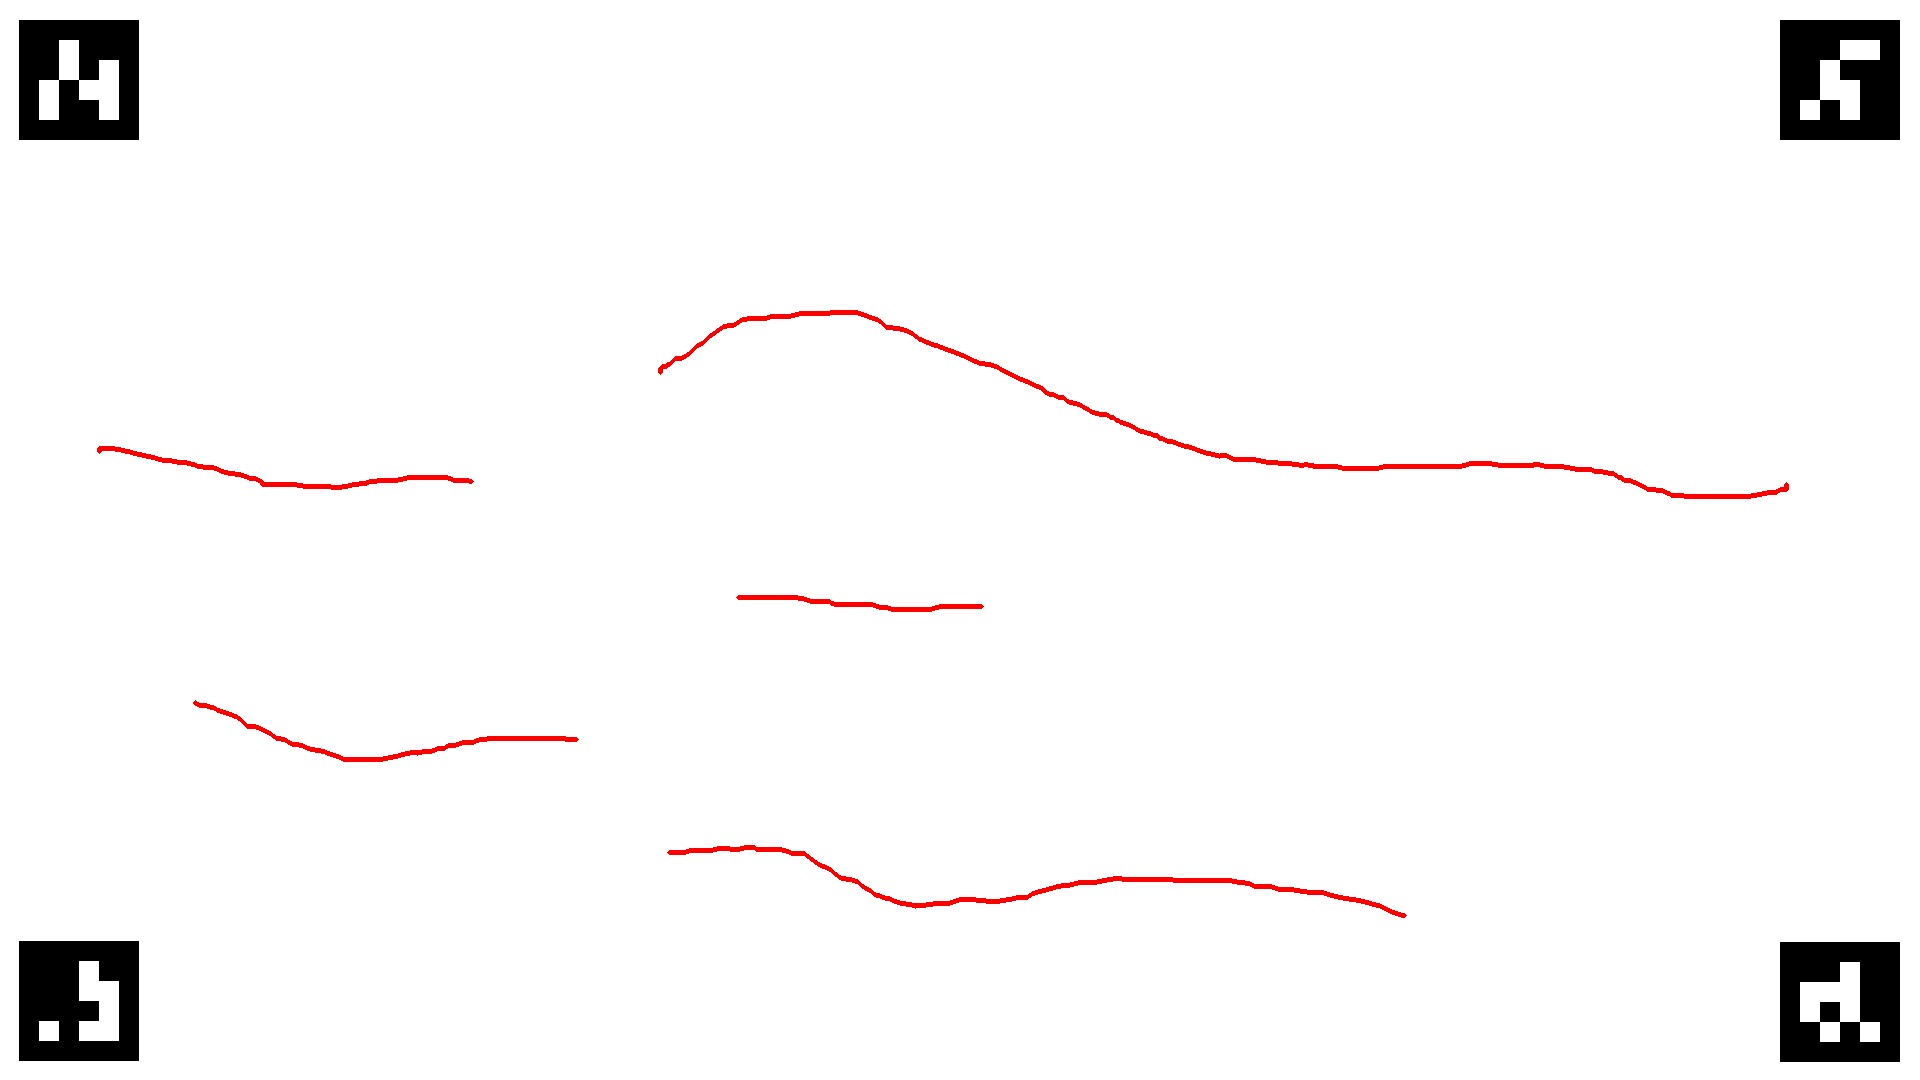
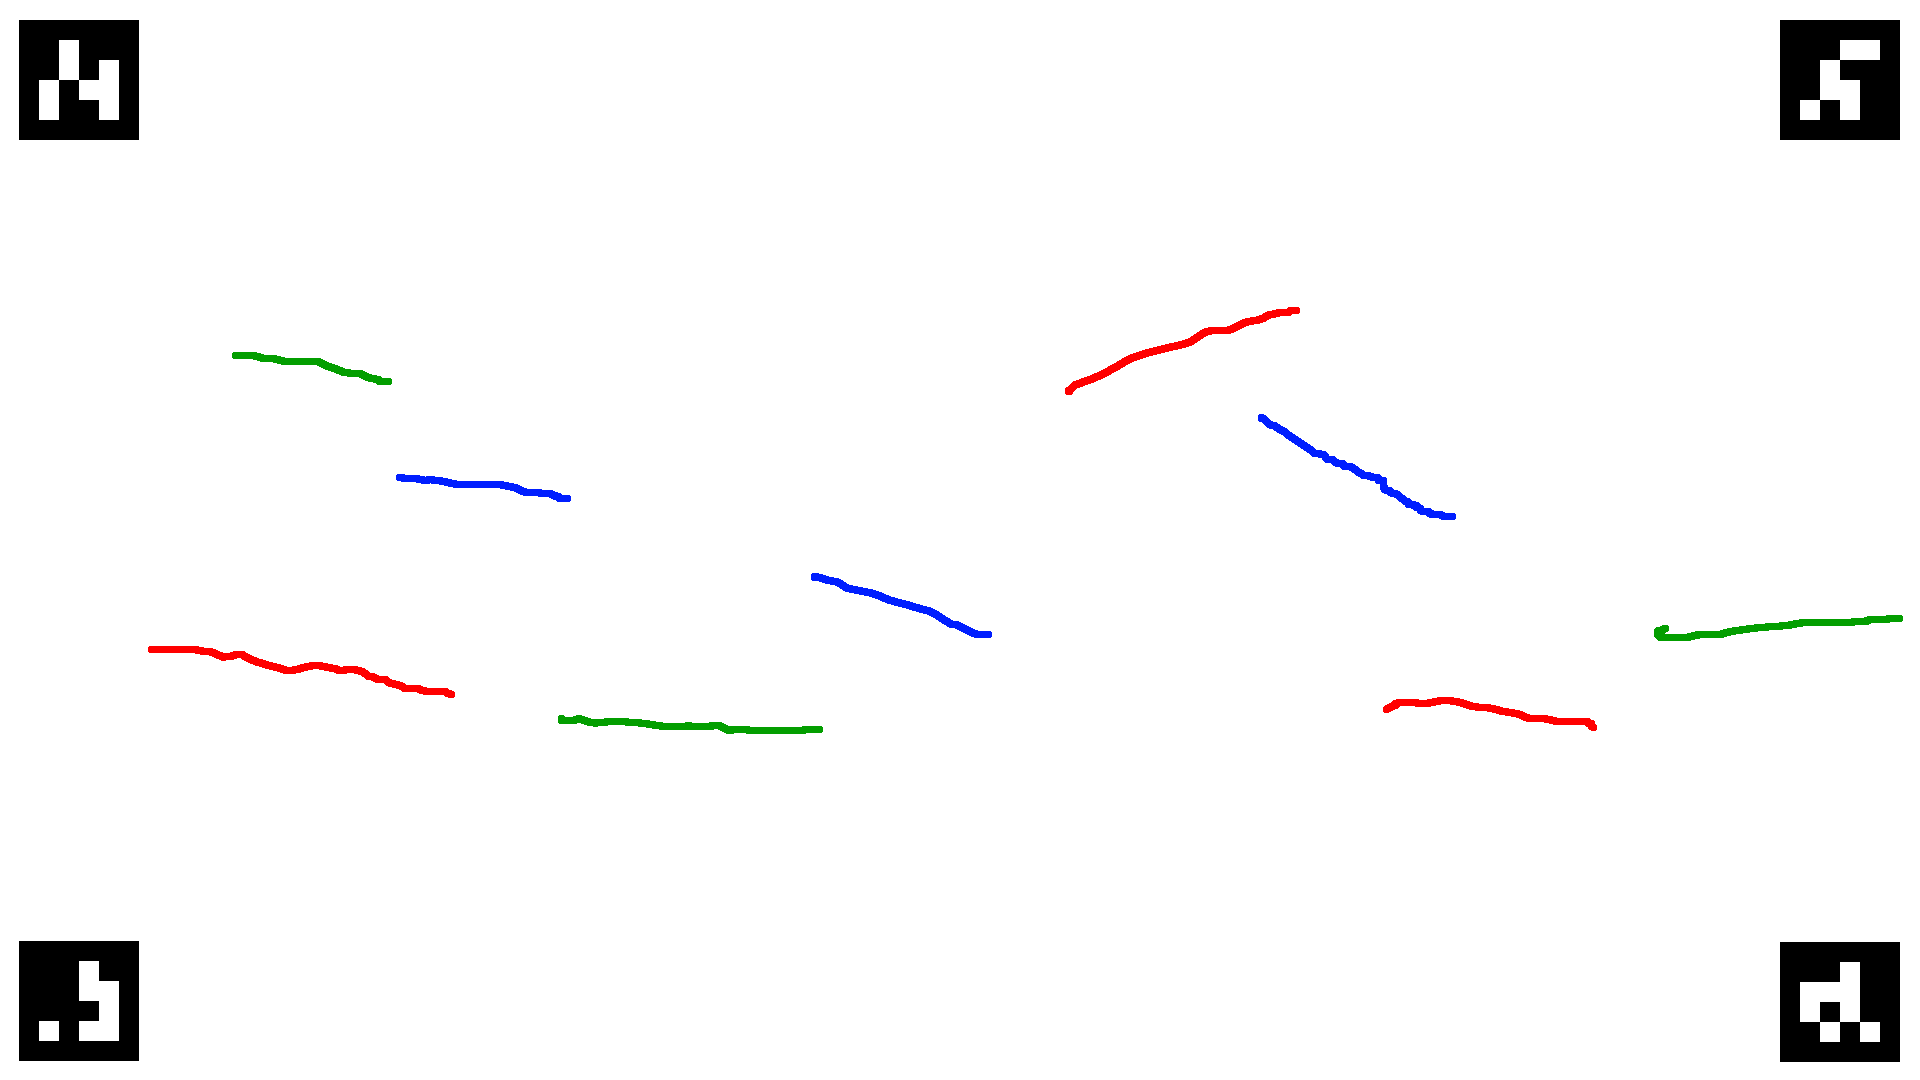
Added different colors and hard reset
And renamed Bong to Barkourball, geez

diff --git a/apps/barkourball.py b/apps/barkourball.py
@@ -1,5 +1,5 @@
 import time
-from typing import List
+from typing import List, SupportsBytes
 from pygame.event import Event
 from pymunk.vec2d import Vec2d
 from lib.bicturemaker import Bicturemaker
@@ -14,16 +14,25 @@ import pymunk.autogeometry
 import pygame.font
 
 
-bols = BolygonBetector()
+red_bols = BolygonBetector((170, 127, 127), (10, 255, 255))
+green_bols = BolygonBetector((50, 127, 127), (70, 255, 255))
+blue_bols = BolygonBetector((110, 127, 127), (130, 255, 255))
 
 
 def barse_red_bolygons(image, field):
-    field["bolygons"] = bols.detect(image)
+    field["red_bolygons"] = red_bols.detect(image)
 
+def barse_green_bolygons(image, field):
+    field["green_bolygons"] = green_bols.detect(image)
 
-class Bong:
+def barse_blue_bolygons(image, field):
+    field["blue_bolygons"] = blue_bols.detect(image)
 
-    barse_red_lines = BarserMethod(barse_red_bolygons)
+class BarkourBall:
+
+    barse_red_bolygons = BarserMethod(barse_red_bolygons)
+    barse_green_bolygons = BarserMethod(barse_green_bolygons)
+    barse_blue_bolygons = BarserMethod(barse_blue_bolygons)
     
     def load(self, context: LoadContext) -> None:
         
@@ -38,10 +47,28 @@ class Bong:
 
         self.started = False
 
-        self.drawn_lines = []
+        self.red_lines = []
+        self.green_lines = []
+        self.blue_lines = []
         self.last_updated = None
 
         self.time_won = None
+        self.sub_steps = 20
+
+    def tick(self, context: TickContext, barsed_context: BarsedContext):
+
+        if self.__handle_events(context.events):
+            return True
+
+        if not self.started:
+            self.__handle_barsed_context(barsed_context)
+
+        for x in range(self.sub_steps):
+            self.space.step(context.delta_ms / 1000 / self.sub_steps)
+
+        self.__check_win()
+
+        self.__render()
 
     def __init_objects(self):
 
@@ -59,30 +86,18 @@ class Bong:
         self.ball.position = self.start
         ball_shape = pymunk.Circle(self.ball, self.ball_radius)
         ball_shape.friction = 0.3
+        ball_shape.elasticity = 0.5
         self.space.add(self.ball, ball_shape)
 
         self.borders = []
         _, _, self.start_bottom = self.__set_borders(self.start)
         self.__set_borders(self.end)
 
-    def tick(self, context: TickContext, barsed_context: BarsedContext):
-
-        if self.__handle_events(context.events):
-            return True
-
-        if not self.started:
-            self.__handle_barsed_context(barsed_context)
-
-        self.space.step(context.delta_ms / 1000)
-
-        self.__check_win()
-
-        self.__render()
-
     def __reset(self):
 
         self.ball.position = self.start
         self.ball.velocity = (0, 0)
+        self.ball.angular_velocity = 0
 
         self.space.remove(*self.borders)
 
@@ -99,7 +114,12 @@ class Bong:
                     self.started = True
                     self.space.remove(self.start_bottom)
                     self.borders.remove(self.start_bottom)
-                if event.key == pygame.K_r:
+                if event.unicode == 'r':
+                    self.started = False
+                    self.__reset()
+                if event.unicode == 'R':
+                    self.start = Vec2d(random.randint(-self.start_x, self.start_x), self.start_y)
+                    self.end = Vec2d(random.randint(-self.end_x, self.end_x), self.end_y)
                     self.started = False
                     self.__reset()
         return False
@@ -110,12 +130,12 @@ class Bong:
         if self.last_updated is None or t - self.last_updated > 1:
             self.last_updated = t
 
-            drawn_lines = barsed_context.data["bolygons"]
-            if drawn_lines is not None:
-                if self.drawn_lines:
-                    self.space.remove(*self.drawn_lines)
-                self.drawn_lines = []
-                for line in drawn_lines:
+            red_lines = barsed_context.data["red_bolygons"]
+            if red_lines is not None:
+                if self.red_lines:
+                    self.space.remove(*self.red_lines)
+                self.red_lines = []
+                for line in red_lines:
                     for convexed_line in pymunk.autogeometry.convex_decomposition(line, 10):
                         if len(convexed_line) < 4:
                             continue
@@ -123,10 +143,42 @@ class Bong:
                         for point in convexed_line:
                             parsed_line.append(self.bicturemaker.game2munk(Vec2d(point[0], point[1])))
                         line_ground = pymunk.Poly(self.space.static_body, parsed_line)
-                        line_ground.friction = 0.3
-                        line_ground.elasticity = 1
                         self.space.add(line_ground)
-                        self.drawn_lines.append(line_ground)
+                        self.red_lines.append(line_ground)
+
+            green_lines = barsed_context.data["green_bolygons"]
+            if green_lines is not None:
+                if self.green_lines:
+                    self.space.remove(*self.green_lines)
+                self.green_lines = []
+                for line in green_lines:
+                    for convexed_line in pymunk.autogeometry.convex_decomposition(line, 10):
+                        if len(convexed_line) < 4:
+                            continue
+                        parsed_line = []
+                        for point in convexed_line:
+                            parsed_line.append(self.bicturemaker.game2munk(Vec2d(point[0], point[1])))
+                        line_ground = pymunk.Poly(self.space.static_body, parsed_line)
+                        line_ground.elasticity = 0.99
+                        self.space.add(line_ground)
+                        self.green_lines.append(line_ground)
+
+            blue_lines = barsed_context.data["blue_bolygons"]
+            if blue_lines is not None:
+                if self.blue_lines:
+                    self.space.remove(*self.blue_lines)
+                self.blue_lines = []
+                for line in blue_lines:
+                    for convexed_line in pymunk.autogeometry.convex_decomposition(line, 10):
+                        if len(convexed_line) < 4:
+                            continue
+                        parsed_line = []
+                        for point in convexed_line:
+                            parsed_line.append(self.bicturemaker.game2munk(Vec2d(point[0], point[1])))
+                        line_ground = pymunk.Poly(self.space.static_body, parsed_line)
+                        line_ground.friction = 10
+                        self.space.add(line_ground)
+                        self.blue_lines.append(line_ground)
 
     def __check_win(self):
         t = time.time()
@@ -148,8 +200,14 @@ class Bong:
         for border in self.borders:
             self.bicturemaker.draw_line((255, 0, 0), border.a, border.b)
 
-        for line in self.drawn_lines:
+        for line in self.red_lines:
             self.bicturemaker.draw_polygon((63, 0, 0), line)
+
+        for line in self.green_lines:
+            self.bicturemaker.draw_polygon((0, 63, 0), line)
+
+        for line in self.blue_lines:
+            self.bicturemaker.draw_polygon((0, 0, 63), line)
 
     def __set_borders(self, point: Vec2d):
         left_top = point + (-self.ball_radius - 0.1, 0)
@@ -173,4 +231,4 @@ class Bong:
         return left, right, bottom
 
 if __name__ == '__main__':
-    Bame(Bong).run()
+    Bame(BarkourBall).run()

diff --git a/lib/bolygonbetector.py b/lib/bolygonbetector.py
@@ -2,14 +2,19 @@ import cv2
 
 
 class BolygonBetector:
-    def __init__(self, **kwargs) -> None:
+    def __init__(self, lower, higher, **kwargs) -> None:
+        self.lower = lower
+        self.higher = higher
         pass
 
     def detect(self, image):
         img_hsv = cv2.cvtColor(image, cv2.COLOR_BGR2HSV)
-        mask1 = cv2.inRange(img_hsv, (0, 127, 127), (10, 255, 255))
-        mask2 = cv2.inRange(img_hsv, (170, 127, 127), (179, 255, 255))
-        mask = mask1 + mask2
+        if self.lower[0] <= self.higher[0]:
+            mask = cv2.inRange(img_hsv, self.lower, self.higher)
+        else:
+            mask1 = cv2.inRange(img_hsv, (0, self.lower[1], self.lower[2]), self.higher)
+            mask2 = cv2.inRange(img_hsv, self.lower, (179, self.higher[1], self.higher[2]))
+            mask = mask1 + mask2
         contours, _ = cv2.findContours(mask.copy(), cv2.RETR_EXTERNAL, cv2.CHAIN_APPROX_SIMPLE)
         if contours:
             smooth_contours = []
